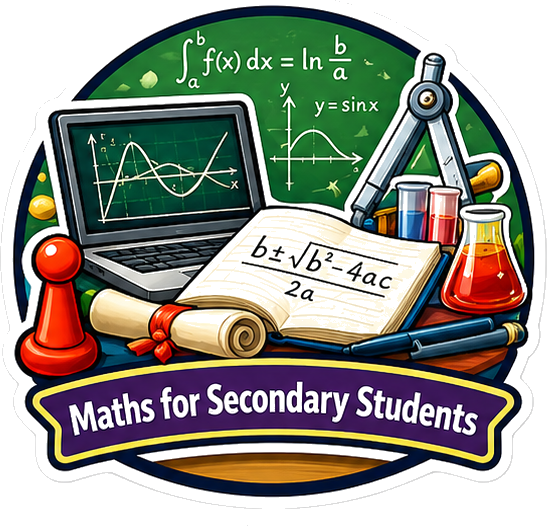
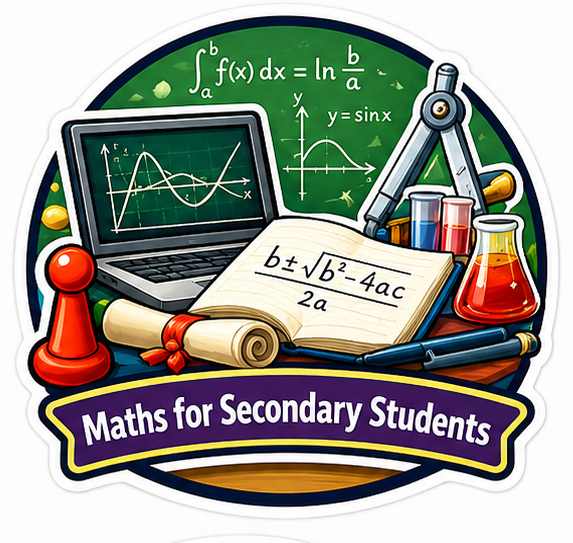
Fix topic images: keep white bg, use BoxFit.contain for sticker shape

diff --git a/lib/screens/home_screen.dart b/lib/screens/home_screen.dart
@@ -436,22 +436,26 @@ class _TopicCard extends StatelessWidget {
       ),
       child: ClipRRect(
         borderRadius: BorderRadius.circular(14),
-        child: imgPath != null
-            ? Image.asset(
-                imgPath,
-                fit: BoxFit.cover,
-                width: double.infinity,
-                height: double.infinity,
-              )
-            : Column(
-                mainAxisAlignment: MainAxisAlignment.center,
-                children: [
-                  const Text('📚', style: TextStyle(fontSize: 44)),
-                  Text(topic,
-                      textAlign: TextAlign.center,
-                      style: const TextStyle(fontWeight: FontWeight.w700, fontSize: 13)),
-                ],
-              ),
+        child: Container(
+          color: Colors.white,
+          width: double.infinity,
+          height: double.infinity,
+          padding: const EdgeInsets.all(8),
+          child: imgPath != null
+              ? Image.asset(
+                  imgPath,
+                  fit: BoxFit.contain,
+                )
+              : Column(
+                  mainAxisAlignment: MainAxisAlignment.center,
+                  children: [
+                    const Text('📚', style: TextStyle(fontSize: 44)),
+                    Text(topic,
+                        textAlign: TextAlign.center,
+                        style: const TextStyle(fontWeight: FontWeight.w700, fontSize: 13)),
+                  ],
+                ),
+        ),
       ),
     );
   }
